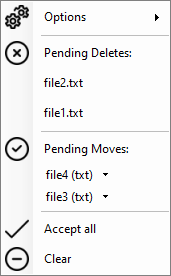
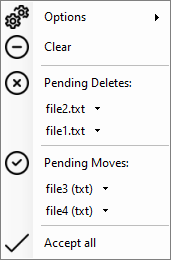
menuing

diff --git a/src/DiffEngineTray/MenuBuilder.cs b/src/DiffEngineTray/MenuBuilder.cs
@@ -48,13 +48,19 @@ static class MenuBuilder
             yield break;
         }
 
+        yield return new MenuButton("Clear", tracker.Clear, Images.Clear);
         if (tracker.Deletes.Any())
         {
             yield return new ToolStripSeparator();
             yield return new MenuButton("Pending Deletes:", tracker.AcceptAllDeletes, Images.Delete);
             foreach (var delete in tracker.Deletes)
             {
-                yield return new MenuButton($"{delete.Name}", () => tracker.Accept(delete));
+                var deleteMenu = new SplitButton($"{delete.Name}", () => tracker.Accept(delete));
+                var directory = Path.GetDirectoryName(delete.File)!;
+                var dropDown = deleteMenu.DropDownItems;
+                dropDown.Add(new MenuButton("Accept change", () => tracker.Accept(delete)));
+                dropDown.Add(new MenuButton("Open directory", () => DirectoryLauncher.Open(directory)));
+                yield return deleteMenu;
             }
         }
 
@@ -64,25 +70,18 @@ static class MenuBuilder
             yield return new MenuButton("Pending Moves:", tracker.AcceptAllMoves, Images.Accept);
             foreach (var move in tracker.Moves)
             {
-                var moveMenu = new SplitButton(
-                    $"{move.Name} ({move.Extension})",
-                    () => tracker.Accept(move));
+                var moveMenu = new SplitButton($"{move.Name} ({move.Extension})", () => tracker.Accept(move));
                 var directory = Path.GetDirectoryName(move.Temp)!;
-                moveMenu.DropDownItems.Add(
-                    new MenuButton(
-                        "Launch diff tool",
-                        () => Tracker.Launch(move)));
-                moveMenu.DropDownItems.Add(
-                    new MenuButton(
-                        "Open directory",
-                        () => DirectoryLauncher.Open(directory)));
+                var dropDown = moveMenu.DropDownItems;
+                dropDown.Add(new MenuButton("Accept change", () => tracker.Accept(move)));
+                dropDown.Add(new MenuButton("Launch diff tool", () => Tracker.Launch(move)));
+                dropDown.Add(new MenuButton("Open directory", () => DirectoryLauncher.Open(directory)));
                 yield return moveMenu;
             }
         }
 
         yield return new ToolStripSeparator();
         yield return new MenuButton("Accept all", tracker.AcceptAll, Images.AcceptAll);
-        yield return new MenuButton("Clear", tracker.Clear, Images.Clear);
     }
 
 }
